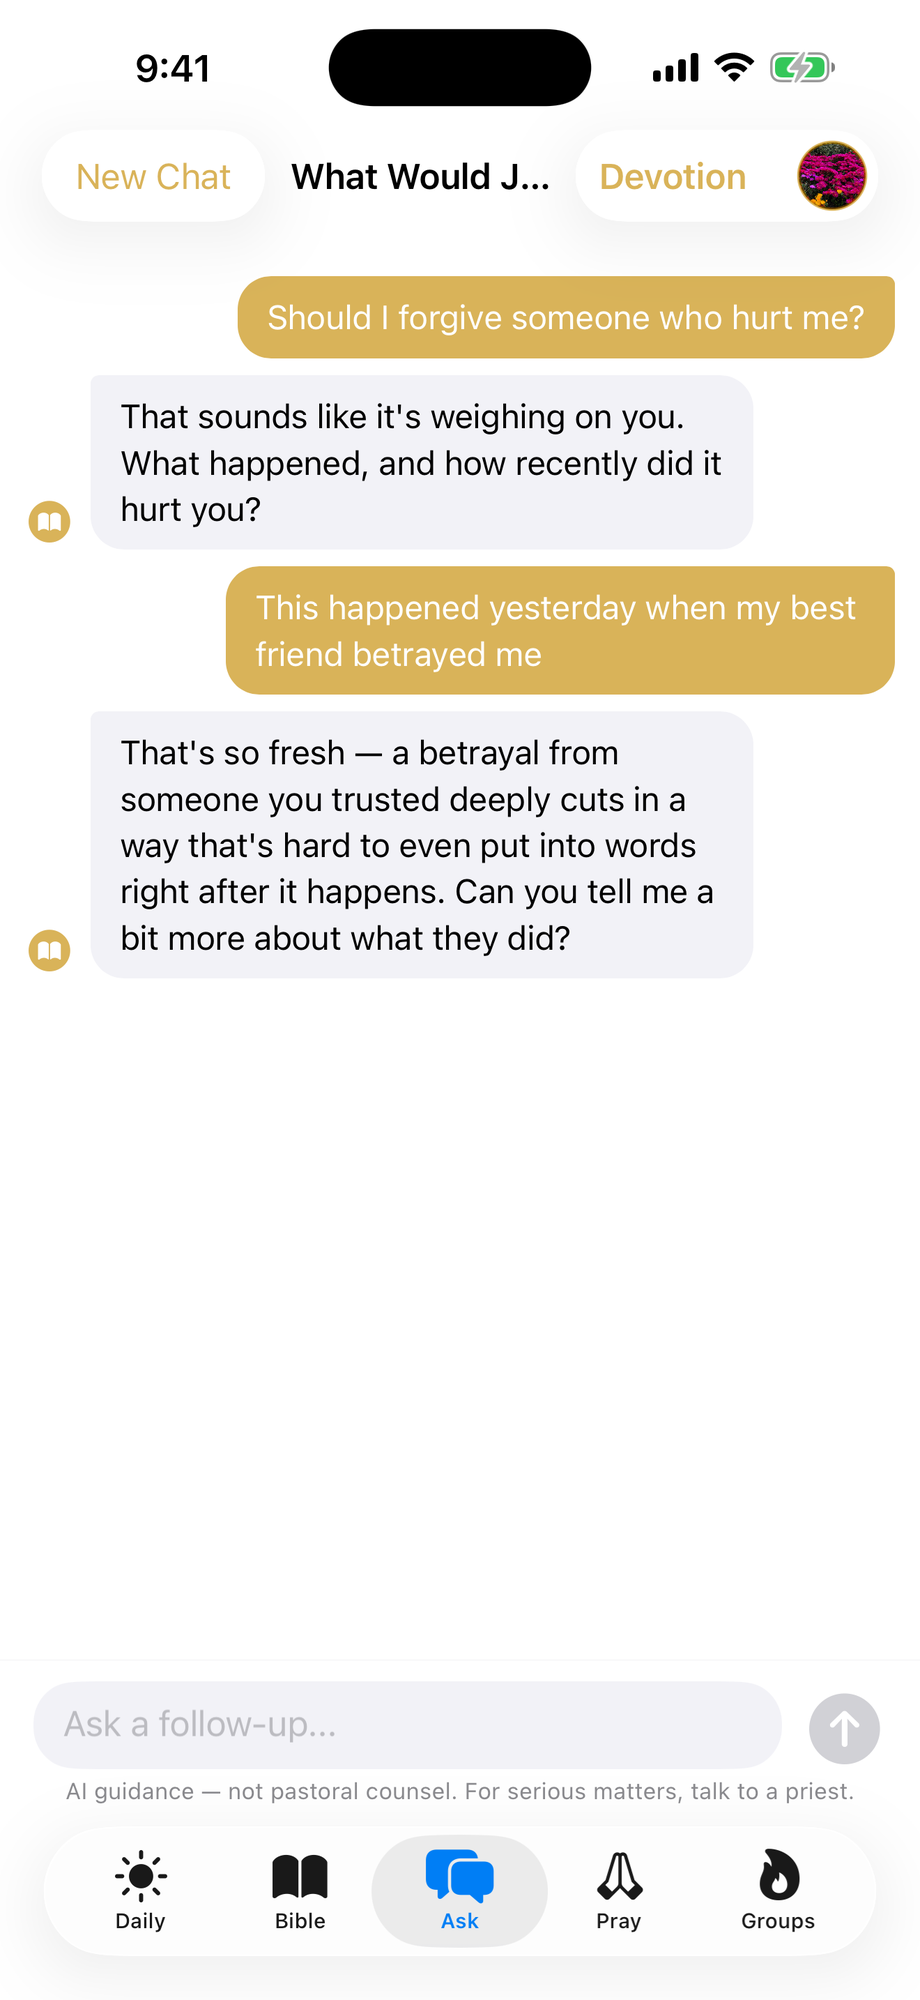
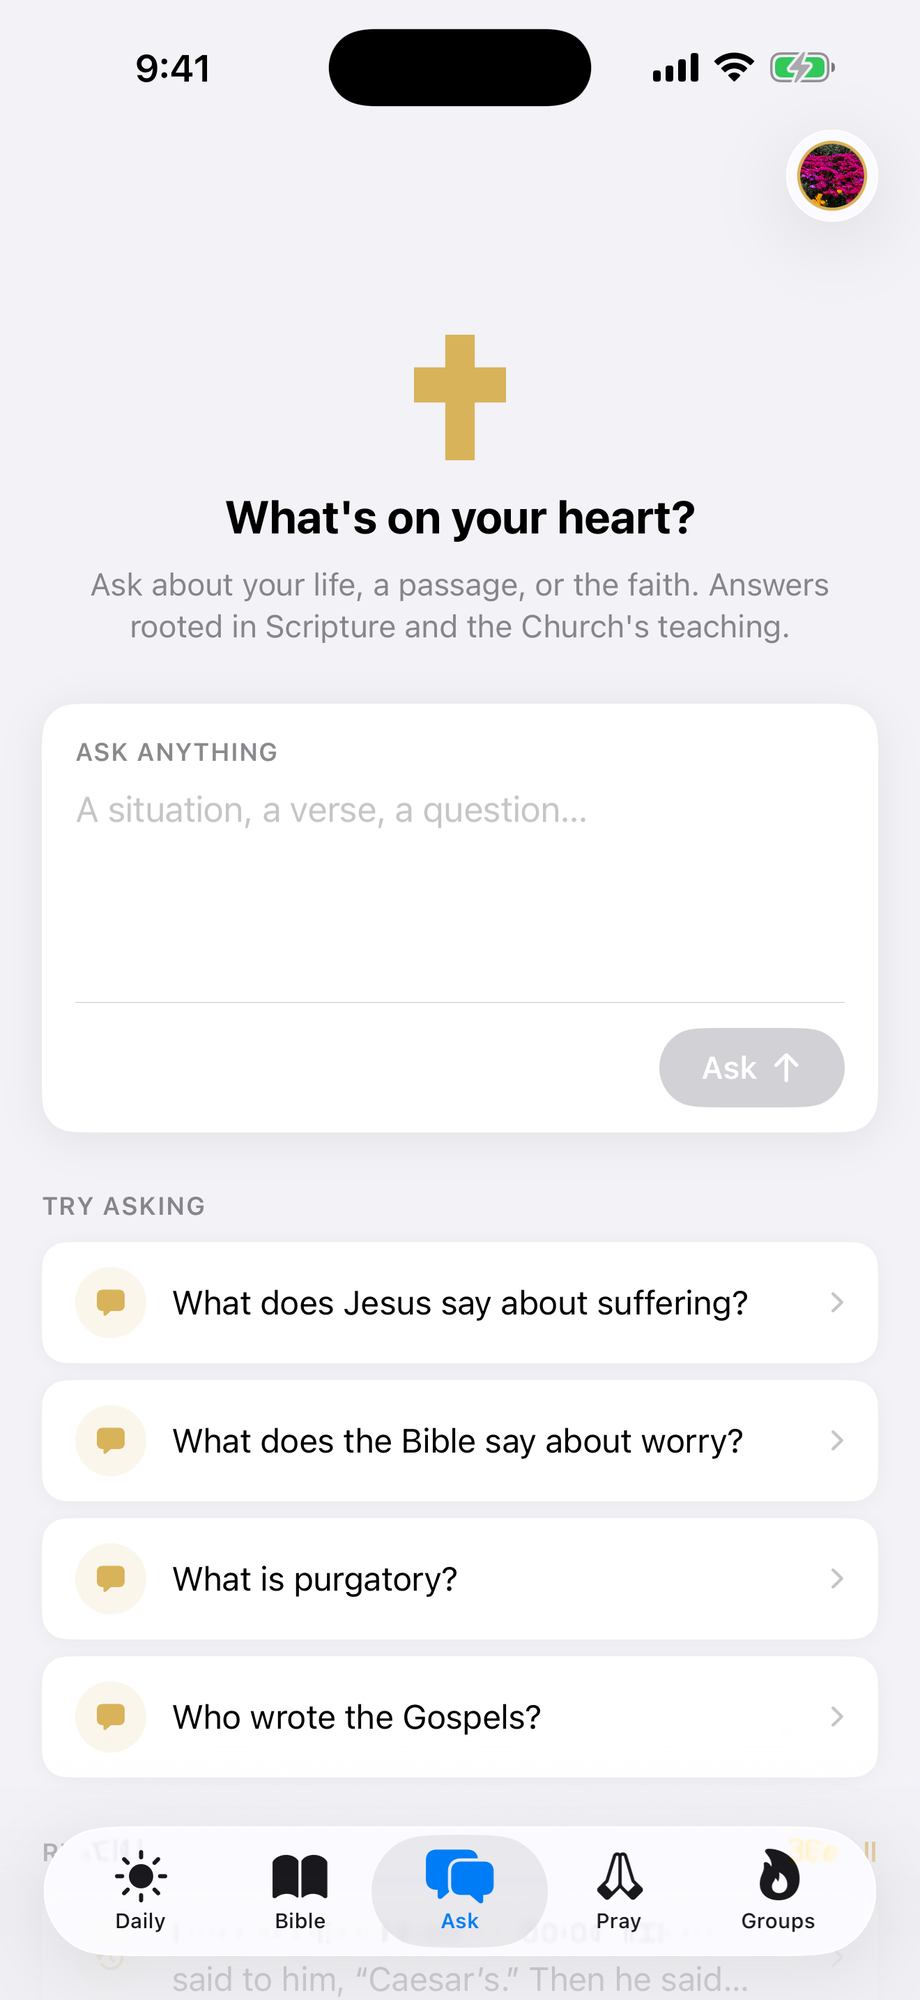
Homepage: the Ask screenshot from 2.3 — not only situations
Claude-Session: https://claude.ai/code/session_019Ry7LeX55gcxp17DxKc6TK

diff --git a/index.html b/index.html
@@ -676,7 +676,7 @@
 
         <div class="screenshot-item fade-up">
           <div class="iphone">
-            <img src="screenshots/ask.png" alt="Ask: a conversation about forgiving someone who hurt you" loading="lazy" width="920" height="2000" />
+            <img src="screenshots/ask.png" alt="Ask: what's on your heart — a situation, a verse, or a question about the faith" loading="lazy" width="920" height="2000" />
           </div>
           <p class="screenshot-label">Ask</p>
           <p class="screenshot-title">Bring Your Questions</p>
